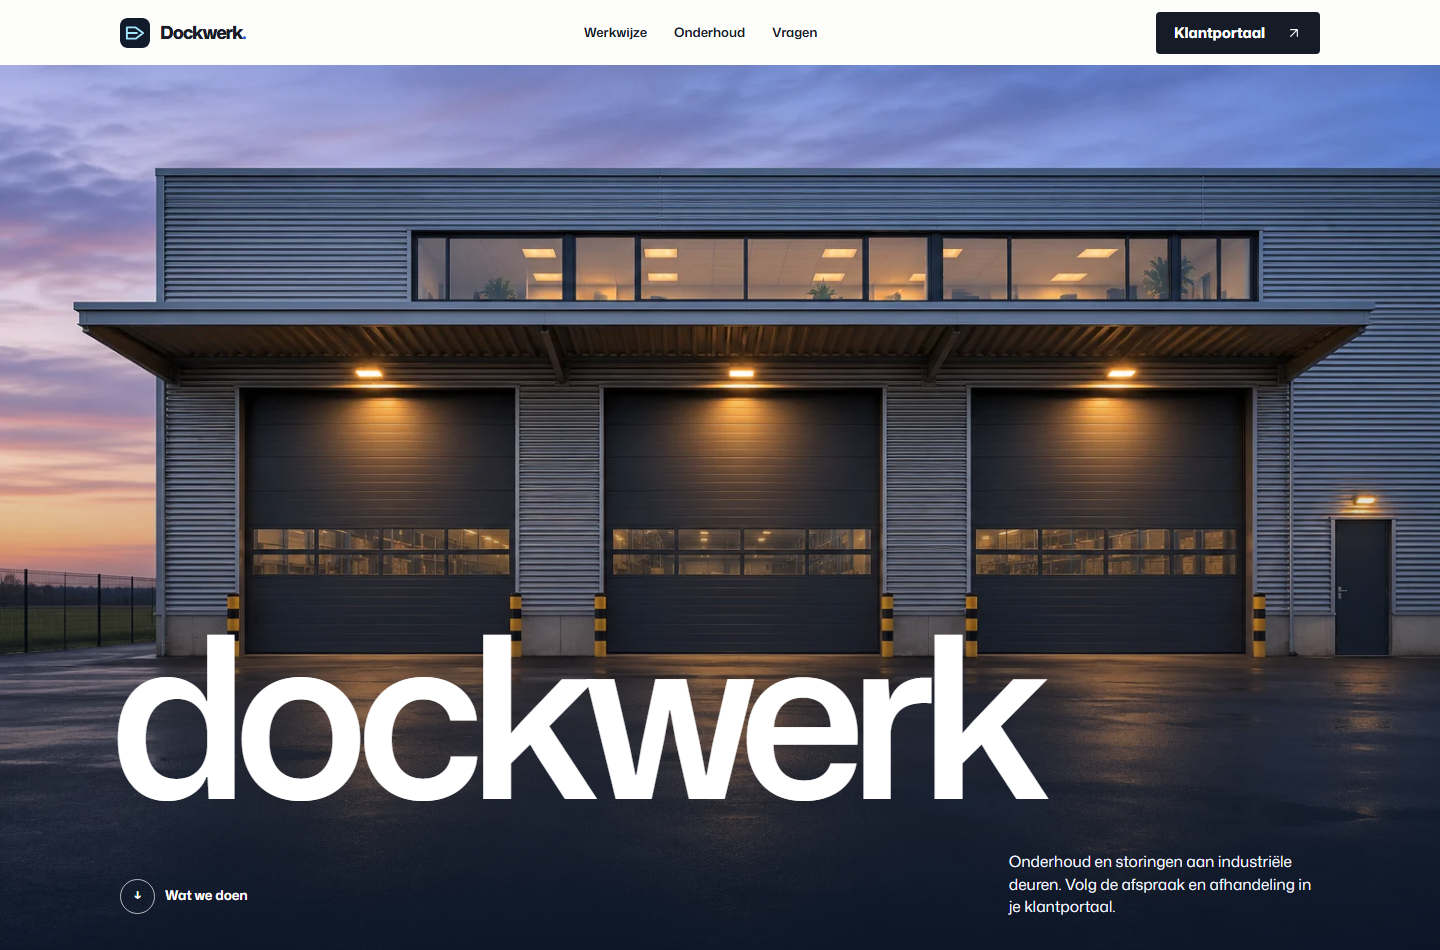
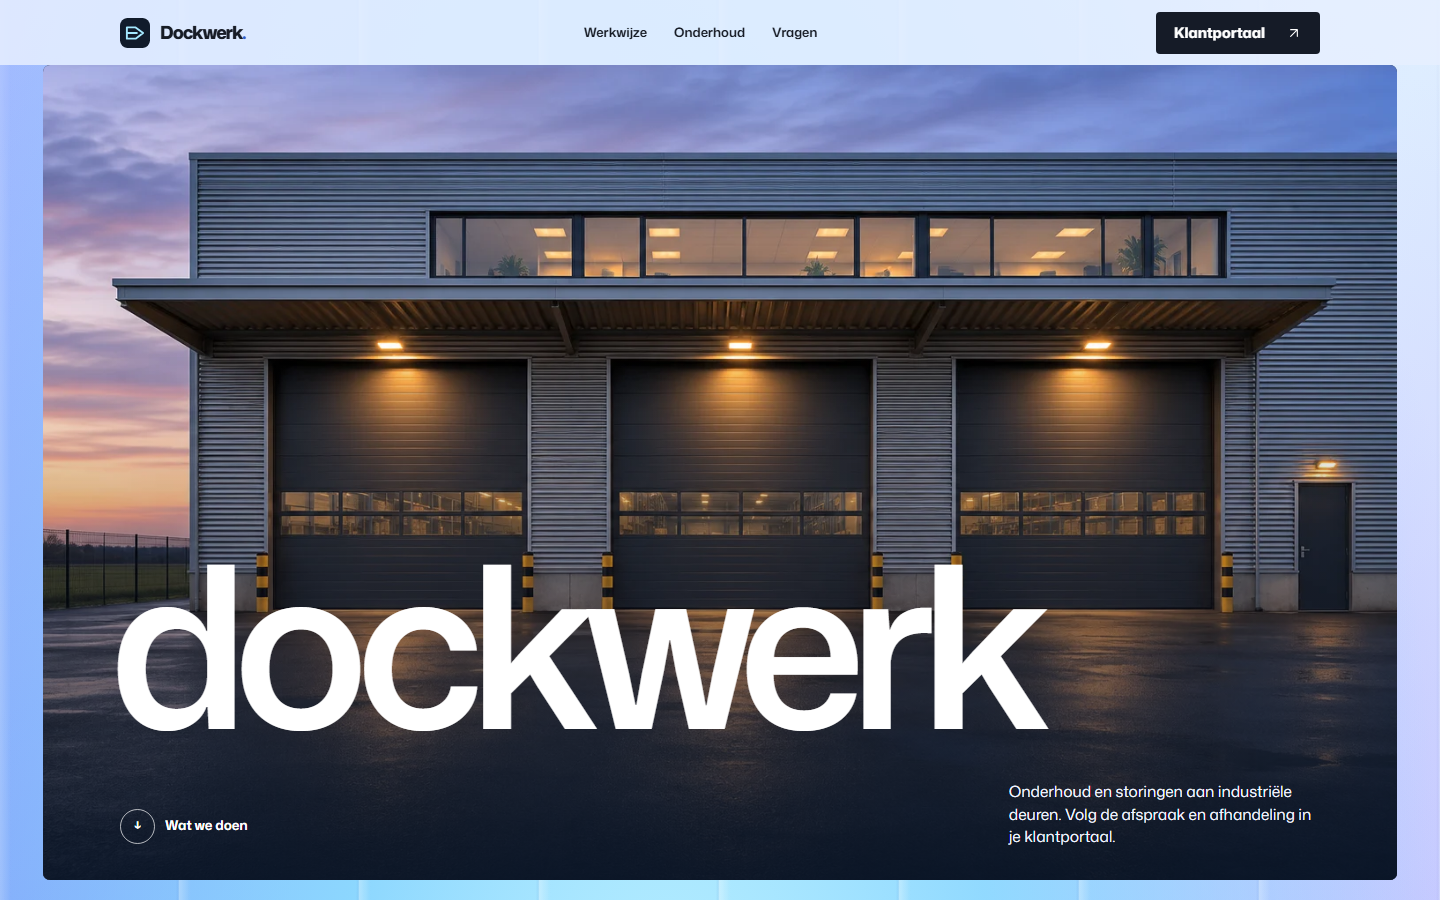
Apply Glacier background throughout Dockwerk

diff --git a/resources/css/home.css b/resources/css/home.css
@@ -1,13 +1,11 @@
 .mode-home {
-    --paper: #fdfdfc;
     --studio-ink: #171c26;
-    --studio-muted: #444d5b;
+    --studio-muted: #354154;
     --studio-rule: #d3d9e1;
     color: var(--studio-ink);
-    background: var(--paper);
 }
 .mode-home .shell { width: min(100% - 112px, 1200px); }
-.mode-home .masthead { position: sticky; top: 0; z-index: 5; background: var(--paper); border: 0; }
+.mode-home .masthead { position: sticky; top: 0; z-index: 5; border: 0; }
 .mode-home .nav { min-height: 65px; }
 .mode-home .brand { font-size: 1.13rem; }
 .mode-home .brand img { width: 30px; height: 30px; border-radius: 6px; }
@@ -16,7 +14,7 @@
 .mode-home .nav-cta, .studio-primary, .closing-button { border-radius: 4px; gap: 21px; min-height: 40px; }
 .mode-home .nav-cta, .studio-primary { background: #151b27; color: white; }
 .mode-home .nav-cta:hover, .studio-primary:hover { background: #283f62; }
-.cover { min-height: clamp(570px, calc(100svh - 65px), 940px); position: relative; isolation: isolate; overflow: clip; display: grid; align-items: end; background: #192a3d; color: white; }
+.cover { margin-inline: clamp(12px, 3vw, 56px); border-radius: 7px; min-height: clamp(570px, calc(100svh - 85px), 940px); position: relative; isolation: isolate; overflow: clip; display: grid; align-items: end; background: #192a3d; color: white; }
 .cover-picture, .cover-picture img, .cover::after { position: absolute; inset: 0; display: block; width: 100%; height: 100%; }
 .cover-picture { z-index: -2; }
 .cover-picture img { object-fit: cover; object-position: center 57%; }
@@ -38,7 +36,7 @@
 .service-pair-reverse .service-image { order: 2; }
 .service-image { overflow: clip; background: #dce2df; border-radius: 5px; }
 .service-image img { display: block; width: 100%; height: 100%; min-height: 315px; max-height: 480px; object-fit: cover; }
-.service-sheet { display: flex; flex-direction: column; min-height: 315px; align-items: start; padding: clamp(21px, 2.6vw, 39px); background: #f0f2f4; border-radius: 5px; }
+.service-sheet { display: flex; flex-direction: column; min-height: 315px; align-items: start; padding: clamp(21px, 2.6vw, 39px); background: #edf4ffe8; border: 1px solid #d0dffa; border-radius: 5px; }
 .sheet-top { display: flex; align-items: center; justify-content: space-between; width: 100%; gap: 12px; border-bottom: 1px solid #c8ced7; padding-bottom: 12px; margin-bottom: 16px; }
 .service-sheet h3 { font-size: clamp(1.9rem, 3.25vw, 3.3rem); font-weight: 565; letter-spacing: -.06em; line-height: 1.05; }
 .service-sheet p { margin-top: 14px; padding-bottom: 14px; }
@@ -46,22 +44,7 @@
 .studio-primary svg, .studio-link svg, .closing-button svg, .mode-home .nav-cta svg { transition: transform .22s; }
 .studio-primary:hover svg, .studio-link:hover svg, .closing-button:hover svg, .mode-home .nav-cta:hover svg,
 .studio-primary:focus-visible svg, .studio-link:focus-visible svg, .closing-button:focus-visible svg { transform: translate(4px, -3px); }
-.workflow-section { position: relative; isolation: isolate; overflow: clip; background: #f4f8ff; scroll-margin-top: 65px; }
-.glacier, .glacier-glow, .glacier-panes { position: absolute; inset: 0; pointer-events: none; }
-.glacier { z-index: -1; }
-.glacier-glow {
-    inset: -10%;
-    background:
-      radial-gradient(ellipse at 54% 49%, #b9f3ff 1%, #6fd3ffab 25%, #6fd3ff00 58%),
-      radial-gradient(ellipse at 79% 43%, #8c7bff96 4%, #8c7bff7a 31%, #8c7bff00 68%),
-      radial-gradient(ellipse at 25% 62%, #2f6bff94 6%, #2f6bff57 34%, #2f6bff00 68%);
-    filter: blur(clamp(15px, 2.6vw, 35px));
-    mask-image: linear-gradient(180deg, transparent 1%, #000 26%, #000 73%, transparent 99%);
-}
-.glacier-panes {
-    background: repeating-linear-gradient(90deg, #fff4, #fff0 10px, #fff0 calc(12.5% - 5px), #2949c414 calc(12.5% - 2px), #f0fbffb0 12.5%);
-    mask-image: radial-gradient(ellipse at 53% 53%, #000 17%, #000d 45%, transparent 77%);
-}
+.workflow-section { background: #deedff3b; border-block: 1px solid #34548b35; scroll-margin-top: 65px; }
 .workflow-inner { display: grid; grid-template-columns: .9fr 1.13fr; gap: clamp(35px, 8vw, 133px); align-items: center; padding-block: clamp(65px, 10vw, 150px); }
 .workflow-inner h2 { margin-top: 15px; }
 .workflow-inner > div > p:not(.studio-label) { color: #27374e; }
@@ -82,12 +65,11 @@
 .faq-list summary span::after { transform: rotate(90deg); }
 .faq-list details[open] summary span::after { transform: rotate(0); }
 .faq-list details p { margin: 0 37px 17px 0; color: var(--studio-muted); line-height: 1.6; max-width: 54ch; }
-.closing-section { background: #151e32; color: white; }
+.closing-section { background: #dce8ff8c; border-top: 1px solid #34548b45; }
 .closing-inner { padding-block: clamp(43px, 7vw, 90px); display: flex; justify-content: space-between; gap: 21px; align-items: center; }
 .closing-inner h2 { max-width: 18ch; }
-.closing-button { background: #f3f6fc; color: #151b27; flex-shrink: 0; }
-.closing-button:hover { background: #cceaff; }
-.mode-home .footer { background: var(--paper); border-color: var(--studio-rule); }
+.closing-button { background: #151b27; color: white; flex-shrink: 0; }
+.closing-button:hover { background: #283f62; }
 
 @media (max-width: 1000px) {
     .mode-home .shell { width: calc(100% - 64px); }
@@ -101,11 +83,11 @@
     .mobile-menu summary { display: grid; place-items: center; cursor: pointer; list-style: none; border: 1px solid #d3d9e1; border-radius: 4px; width: 40px; height: 40px; }
     .mobile-menu summary::-webkit-details-marker { display: none; }
     .mobile-menu summary:focus-visible { outline: 3px solid #2563df; outline-offset: 3px; }
-    .mobile-menu nav { position: absolute; top: 100%; inset-inline: 0; display: grid; padding: 13px 18px; border-top: 1px solid #d3d9e1; border-bottom: 1px solid #d3d9e1; background: var(--paper); }
+    .mobile-menu nav { position: absolute; top: 100%; inset-inline: 0; display: grid; padding: 13px 18px; border-top: 1px solid #d3d9e1; border-bottom: 1px solid #d3d9e1; background: #e7efff; }
     .mobile-menu nav a { padding-block: 12px; min-height: 44px; text-decoration: underline; text-underline-offset: 4px; }
     .mode-home .nav-cta { margin-left: auto; }
     .cover { min-height: clamp(520px, calc(88svh - 62px), 720px); }
-    .cover h1 { font-size: clamp(3.85rem, 18.55vw, 8rem); margin-bottom: 22px; }
+    .cover h1 { font-size: clamp(3.45rem, 17.8vw, 8rem); margin-bottom: 22px; }
     .cover-picture img { object-position: center 50%; }
     .cover-content { padding-bottom: 24px; }
     .cover-meta { flex-direction: column-reverse; align-items: start; gap: 12px; }
@@ -116,8 +98,6 @@
     .service-image img { max-height: 295px; min-height: 235px; }
     .service-sheet { min-height: 248px; }
     .workflow-inner, .faq-section { gap: 28px; }
-    .glacier-glow { inset: -6%; }
-    .glacier-panes { background-size: 135% 100%; }
     .closing-inner { flex-direction: column; align-items: flex-start; }
 }
 

diff --git a/resources/css/app.css b/resources/css/app.css
@@ -17,7 +17,7 @@
     --radius: 8px;
     font-family: "Mona Sans", system-ui, sans-serif;
     color: var(--ink);
-    background: #f7f7f3;
+    background: #dce8ff;
     font-synthesis: none;
 }
 * { box-sizing: border-box; }
@@ -33,7 +33,7 @@ a:focus-visible, button:focus-visible, input:focus-visible, textarea:focus-visib
 .shell { width: min(100% - 112px, 1312px); margin-inline: auto; }
 .skip-link { position: fixed; z-index: 10; top: 10px; left: 16px; padding: 10px 16px; background: white; transform: translateY(-160%); border-radius: 8px; }
 .skip-link:focus { transform: translateY(0); }
-.masthead { background: white; border-bottom: 1px solid var(--line); position: relative; z-index: 1; }
+.masthead { background: var(--glacier-chrome); border-bottom: 1px solid var(--line); position: relative; z-index: 1; }
 .nav { display: flex; align-items: center; min-height: 76px; gap: 24px; justify-content: space-between; }
 .brand { display: inline-flex; align-items: center; gap: 10px; font-size: 1.52rem; font-weight: 800; letter-spacing: -.065em; line-height: 1; flex-shrink: 0; }
 .brand-dot { color: #285bcd; }
@@ -48,7 +48,7 @@ a:focus-visible, button:focus-visible, input:focus-visible, textarea:focus-visib
 .button-quiet { background: white; color: var(--ink); border-color: var(--line); }
 .button-quiet:hover { background: var(--canvas); }
 
-.footer { background: #fff; border-top: 1px solid var(--line); padding-block: 21px; }
+.footer { background: var(--glacier-chrome); border-top: 1px solid var(--line); padding-block: 21px; }
 .footer-inner { display: flex; align-items: center; justify-content: space-between; gap: 14px; flex-wrap: wrap; }
 .footer .brand { font-size: 1.19rem; }
 .footer p, .footer small { color: var(--muted); font-size: .82rem; }
@@ -60,7 +60,7 @@ a:focus-visible, button:focus-visible, input:focus-visible, textarea:focus-visib
 .login-overlay { z-index: -1; background: linear-gradient(0deg, #151915ed 2%, #15191579 32%, transparent 66%); }
 .login-intro h1 { margin: 9px 0 13px; font-size: clamp(2.3rem, 4vw, 4.2rem); font-weight: 585; line-height: 1.02; letter-spacing: -.047em; }
 .login-intro > p:last-child { color: #e3edf9; line-height: 1.55; max-width: 32ch; }
-.login-form-card { padding: clamp(24px, 4vw, 48px); background: white; border: 1px solid var(--line); border-radius: var(--radius); }
+.login-form-card { padding: clamp(24px, 4vw, 48px); background: var(--glacier-surface); border: 1px solid var(--line); border-radius: var(--radius); }
 .login-form-card h2, .form-panel h1 { margin: 0 0 6px; font-size: clamp(2rem, 4vw, 3rem); font-weight: 820; line-height: 1.08; letter-spacing: -.062em; }
 .muted { color: var(--muted); line-height: 1.6; }
 .stacked-form { display: flex; flex-direction: column; align-items: flex-start; margin-top: 23px; }
@@ -81,7 +81,7 @@ a:focus-visible, button:focus-visible, input:focus-visible, textarea:focus-visib
 
 .portal-shell, .narrow-shell { padding-block: 32px 70px; }
 .narrow-shell { max-width: 690px; }
-.portal-hero { display: flex; align-items: center; justify-content: space-between; gap: 20px; border-radius: var(--radius); color: var(--ink); background: white; border: 1px solid var(--line); border-top: 3px solid #688de8; padding: clamp(24px, 4vw, 48px); }
+.portal-hero { display: flex; align-items: center; justify-content: space-between; gap: 20px; border-radius: var(--radius); color: var(--ink); background: var(--glacier-surface); border: 1px solid var(--line); border-top: 3px solid #688de8; padding: clamp(24px, 4vw, 48px); }
 .portal-hero h1, .detail-heading h1 { font-size: clamp(2rem, 4vw, 3.5rem); font-weight: 650; letter-spacing: -.045em; line-height: 1.11; margin-block: 6px 9px; overflow-wrap: anywhere; }
 .portal-hero p:not(.eyebrow) { color: var(--muted); }
 .portal-hero .hero-kicker { color: #2853b3; }

diff --git a/tests/browser/portal.spec.js b/tests/browser/portal.spec.js
@@ -36,6 +36,7 @@ test('de homepage is bruikbaar met toetsenbord en op mobiel', async ({ page }) =
     await expect(page.getByRole('navigation', { name: 'Mobiele navigatie' })).toBeHidden();
     await page.getByRole('link', { name: 'Klantportaal', exact: true }).click();
     await expect(page.getByRole('heading', { name: 'Welkom terug.' })).toBeVisible();
+    await expect(page.locator('body > .glacier')).toHaveCSS('position', 'absolute');
     await page.getByRole('button', { name: 'Noordkade', exact: true }).click();
     await expect(page.getByLabel('E-mailadres')).toHaveValue('noordkade@dockwerk.test');
     await expect(page.getByRole('button', { name: 'Inloggen', exact: true })).toBeFocused();
@@ -53,9 +54,11 @@ test('de homepage is bruikbaar met toetsenbord en op mobiel', async ({ page }) =
     await expect.poll(coverShift).toBeGreaterThan(24);
     await page.getByRole('link', { name: 'Werkwijze', exact: true }).click();
     await expect(page.locator('.workflow-section')).toBeInViewport();
-    expect(await page.locator('.glacier').evaluate((element) => {
-        return getComputedStyle(element).position === 'absolute'
-            && element.getBoundingClientRect().width === element.parentElement.getBoundingClientRect().width;
+    const backdrop = page.locator('body > .glacier');
+    await expect(backdrop).toHaveCSS('position', 'absolute');
+    expect(await backdrop.evaluate((element) => {
+        const { width, height } = element.getBoundingClientRect();
+        return width === window.innerWidth && height === document.body.getBoundingClientRect().height;
     })).toBe(true);
     await page.getByText('Waar vind ik mijn afspraakdatum?', { exact: true }).click();
     await expect(page.getByText('Open de melding vanuit het overzicht.', { exact: false })).toBeVisible();
@@ -88,6 +91,7 @@ test('van melding naar afspraak en afronding met gescheiden bedrijven', async ({
         await employee.waitForURL('**/werkplaats/meldingen', { waitUntil: 'commit' });
         await expect(employee.getByRole('heading', { name: 'Storingsmeldingen' })).toBeVisible({ timeout: 30_000 });
         await employee.waitForFunction(() => window.Livewire?.all().length > 0, null, { timeout: 45_000 });
+        await expect(employee.locator('body > .glacier')).toHaveCSS('position', 'absolute');
         const row = employee.getByRole('row').filter({ hasText: title });
         await row.getByRole('button', { name: 'Bekijken' }).click();
         await expect(employee.getByRole('dialog')).toContainText('De poort stopt halverwege');

diff --git a/resources/css/glacier.css b/resources/css/glacier.css
@@ -1,0 +1,54 @@
+body.glacier-page,
+body.fi-panel-staff {
+    --glacier-base: #dce8ff;
+    --glacier-surface: #f6faff;
+    --glacier-chrome: #e7efffda;
+    position: relative;
+    isolation: isolate;
+    background: var(--glacier-base);
+}
+
+.glacier {
+    position: absolute;
+    inset: 0;
+    z-index: -1;
+    overflow: clip;
+    pointer-events: none;
+}
+
+.glacier-glow,
+.glacier-panes {
+    position: absolute;
+    inset: 0;
+}
+
+.glacier-glow {
+    inset: -10%;
+    background:
+        radial-gradient(ellipse at 47% 39%, #c3f5ff 0%, #8cdeffdc 27%, transparent 61%),
+        radial-gradient(ellipse at 85% 60%, #9f91fce6 5%, #b3a8ff7a 34%, transparent 66%),
+        radial-gradient(ellipse at 17% 45%, #678ff7e8 7%, #89a7feaa 40%, transparent 72%),
+        linear-gradient(110deg, #b7cbff, #e3f5ff 52%, #cec5ff);
+}
+
+.glacier-panes {
+    --pane-width: clamp(78px, 12.5vw, 240px);
+    background: repeating-linear-gradient(
+        90deg,
+        #fbfeff56 0,
+        transparent 11px,
+        transparent calc(var(--pane-width) - 4px),
+        #3e5cb014 calc(var(--pane-width) - 2px),
+        #f0fbff86 var(--pane-width)
+    );
+    mask-image: radial-gradient(ellipse at 50% 49%, #000 29%, #000c 69%, #0005 100%);
+}
+
+.fi-panel-staff > .glacier {
+    opacity: .68;
+}
+
+.fi-panel-staff .fi-topbar,
+.fi-panel-staff .fi-main-sidebar {
+    background: #e7efff;
+}

diff --git a/resources/js/home-motion.js b/resources/js/home-motion.js
@@ -11,7 +11,7 @@ export function startHomeMotion() {
         const wordmark = cover.querySelector('h1');
         const photograph = cover.querySelector('.hero-photo');
         const coverPicture = cover.querySelector('.cover-picture');
-        const workflow = document.querySelector('.workflow-section');
+        const backdropGlow = document.querySelector('.glacier-glow');
 
         gsap.timeline({ defaults: { ease: 'power3.out' } })
             .from(photograph, { scale: 1.11, duration: 1.55 }, 0)
@@ -24,9 +24,9 @@ export function startHomeMotion() {
             scrollTrigger: { trigger: cover, start: 'top 65px', end: 'bottom top', scrub: 0.55 },
         });
 
-        gsap.to(workflow.querySelector('.glacier-glow'), {
-            xPercent: 9, yPercent: -8, ease: 'none',
-            scrollTrigger: { trigger: workflow, start: 'top bottom', end: 'bottom top', scrub: 0.65 },
+        gsap.to(backdropGlow, {
+            xPercent: 6, yPercent: -4, ease: 'none',
+            scrollTrigger: { trigger: '#inhoud', start: 'top top', end: 'bottom bottom', scrub: 0.65 },
         });
 
         for (const element of document.querySelectorAll('[data-appear]')) {

diff --git a/vite.config.js b/vite.config.js
@@ -4,7 +4,7 @@ import tailwindcss from '@tailwindcss/vite';
 
 export default defineConfig({
     plugins: [
-        laravel({ input: ['resources/css/app.css', 'resources/js/app.js'], refresh: true }),
+        laravel({ input: ['resources/css/app.css', 'resources/css/glacier.css', 'resources/js/app.js'], refresh: true }),
         tailwindcss(),
     ],
 });

diff --git a/app/Providers/Filament/StaffPanelProvider.php b/app/Providers/Filament/StaffPanelProvider.php
@@ -10,12 +10,16 @@ use Filament\Http\Middleware\DispatchServingFilamentEvent;
 use Filament\Panel;
 use Filament\PanelProvider;
 use Filament\Support\Colors\Color;
+use Filament\View\PanelsRenderHook;
+use Illuminate\Contracts\Support\Htmlable;
 use Illuminate\Cookie\Middleware\AddQueuedCookiesToResponse;
 use Illuminate\Cookie\Middleware\EncryptCookies;
 use Illuminate\Foundation\Http\Middleware\VerifyCsrfToken;
+use Illuminate\Foundation\Vite;
 use Illuminate\Routing\Middleware\SubstituteBindings;
 use Illuminate\Session\Middleware\StartSession;
 use Illuminate\View\Middleware\ShareErrorsFromSession;
+use Illuminate\View\View;
 
 class StaffPanelProvider extends PanelProvider
 {
@@ -33,6 +37,8 @@ class StaffPanelProvider extends PanelProvider
             ->font('Mona Sans', url: asset('fonts/mona-sans.css'))
             ->colors(['primary' => Color::Blue])
             ->darkMode(false)
+            ->renderHook(PanelsRenderHook::STYLES_AFTER, fn (): Htmlable => app(Vite::class)('resources/css/glacier.css'))
+            ->renderHook(PanelsRenderHook::BODY_START, fn (): View => view('components.glacier'))
             ->resources([ServiceRequestResource::class])
             ->middleware([
                 EncryptCookies::class,

diff --git a/resources/views/components/layout.blade.php b/resources/views/components/layout.blade.php
@@ -9,9 +9,10 @@
     <link rel="icon" href="{{ asset('images/dockwerk-mark.svg') }}" type="image/svg+xml">
     <link rel="preload" href="{{ asset('fonts/mona-sans-latin.woff2') }}" as="font" type="font/woff2" crossorigin>
     <link rel="stylesheet" href="{{ asset('fonts/mona-sans.css') }}">
-    @vite(['resources/css/app.css', 'resources/js/app.js'])
+    @vite(['resources/css/app.css', 'resources/css/glacier.css', 'resources/js/app.js'])
 </head>
-<body class="mode-{{ $mode }}">
+<body class="glacier-page mode-{{ $mode }}">
+    <x-glacier />
     <a href="#inhoud" class="skip-link">Naar inhoud</a>
     <header class="masthead">
         <div class="shell nav">

diff --git a/resources/views/home.blade.php b/resources/views/home.blade.php
@@ -41,7 +41,6 @@
     </section>
 
     <section id="werkwijze" class="workflow-section" aria-labelledby="workflow-title">
-        <div class="glacier" aria-hidden="true"><div class="glacier-glow"></div><div class="glacier-panes"></div></div>
         <div class="shell workflow-inner">
             <div data-appear>
                 <p class="studio-label">In het klantportaal</p>

diff --git a/resources/views/components/glacier.blade.php b/resources/views/components/glacier.blade.php
@@ -1,0 +1,4 @@
+<div class="glacier" aria-hidden="true">
+    <div class="glacier-glow"></div>
+    <div class="glacier-panes"></div>
+</div>

diff --git a/docs/VOORTGANG.md b/docs/VOORTGANG.md
@@ -33,3 +33,9 @@ De website is als lokale portfoliodemo gebouwd. `DOCKWERK_DEMO` staat standaard 
 - Vite-build, 9 PHP-tests (41 assertions), Pint en 2 Chromium-tests slaagden. De [MP4](screenshots/dockwerk-motion.mp4) toont circa 10 seconden van de live scroll, Glacier en de FAQ.
 - Lighthouse 13.6.0 gaf op de lokale mobiele simulatie toegankelijkheid 100 en best practices 100. De prestatiemeting schommelde in de lokale dev-omgeving. In de geïsoleerde meting was LCP 3,7 s met een trage eerste Laravel-respons en een lange ongespecificeerde taak. Lenis is vervolgens afgesplitst van de animatiebundel voor touch. Een meting op online hosting staat open.
 - Na de splitsing slaagde de gerichte homepage-browsertest opnieuw. Het netwerkverkeer in Chromium bevestigt: desktop laadt GSAP en Lenis, touch laadt GSAP, en reduced motion begint met alleen de algemene JavaScript-bundel.
+
+## Glacier over de hele site
+
+Op verzoek van Ahmad loopt Glacier van de navigatie tot de voettekst. De gedeelde CSS-laag staat achter de homepage, het inlogscherm, het klantportaal en de werkplaats. De openingsfoto heeft ruimte langs de randen. Formulieren en tabellen staan op lichte vlakken.
+
+De Vite-build, 9 PHP-tests (41 assertions), Pint en 2 Chromium-tests slaagden. Op de homepage is de laag op desktop en mobiel even breed en hoog als de hele pagina. Inloggen, het klantportaal en de werkplaats zijn ook in Chromium bekeken. De bijgewerkte schermafbeeldingen staan in de [README](../README.md#verder-lezen).

diff --git a/DESIGN.md b/DESIGN.md
@@ -4,7 +4,7 @@ De homepage is opgebouwd rond een brede avondfoto van een laadperron. Het woordm
 
 ## Glacier
 
-Glacier zit achter de volledige sectie ‘Van storing tot herstel’. Drie radiale kleurvelden maken een cyaan kern, kobaltblauw links en violet rechts. Een tweede laag van herhaalde lichtnaden verwijst naar de verticale banen in Ahmads referentie. De boven- en onderranden lopen uit naar een lichtblauw vlak. Tekst, stappen en de link naar het portaal staan voor de achtergrond.
+Glacier is de doorlopende achtergrond van de homepage, het inlogscherm, het klantportaal en de werkplaats. Drie radiale kleurvelden maken een cyaan kern, kobaltblauw links en violet rechts. Een tweede laag van herhaalde lichtnaden verwijst naar de verticale banen in Ahmads referentie. De openingsfoto heeft een smalle marge die Glacier zichtbaar maakt. Formulieren en tabellen staan op rustigere oppervlakken, zodat ze goed leesbaar blijven.
 
 ## Beweging
 
@@ -12,4 +12,4 @@ GSAP laat de cover bij openen van dichtbij naar de ruststand bewegen. Bij scroll
 
 De FAQ en het mobiele menu gebruiken native HTML-disclosures. De foto van het laadperron heeft een afzonderlijke mobiele uitsnede. Mona Sans en de drie gegenereerde projectfoto’s staan lokaal in de app.
 
-[Referenties en werkwijze](docs/REFERENTIES.md) · [Browservideo](docs/screenshots/dockwerk-motion.mp4)
+[Referenties en werkwijze](docs/REFERENTIES.md) · [Browservideo van de eerdere achtergrond](docs/screenshots/dockwerk-motion.mp4)
